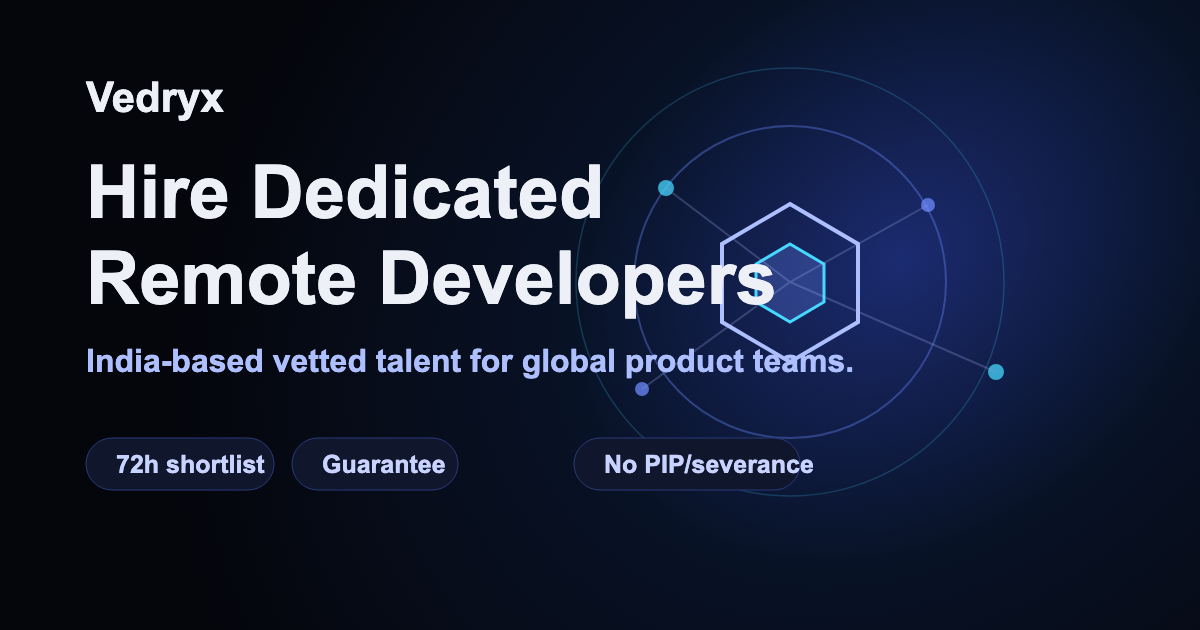
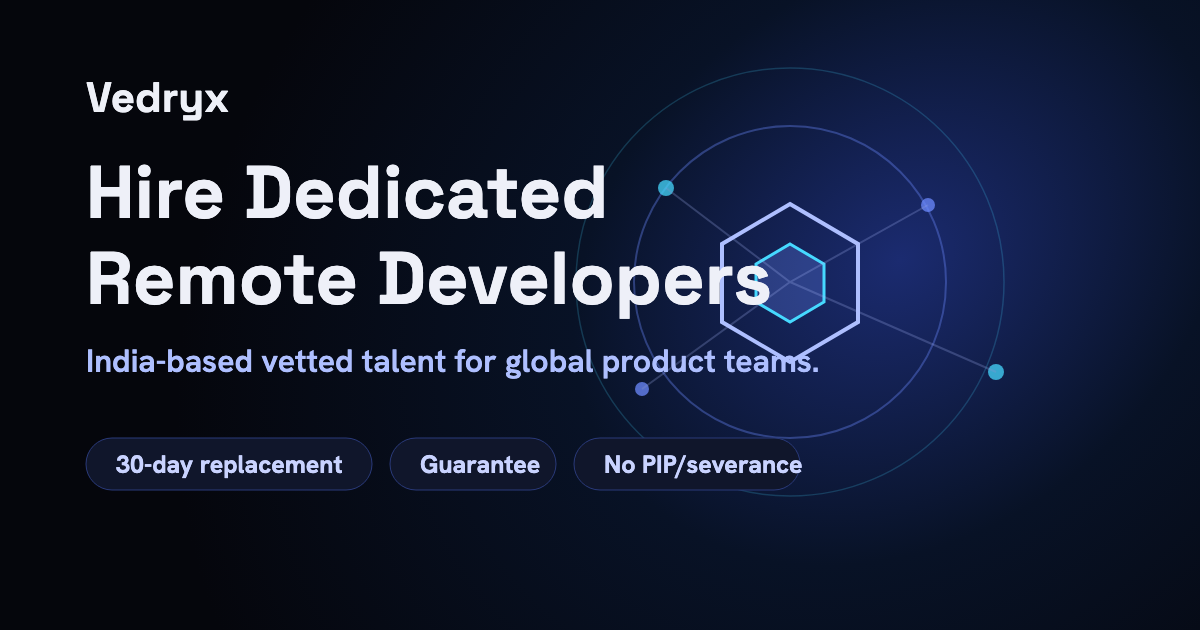
feat: Vedryx Hire rebrand — rename + 30-day replacement promise + hire.vedryxtech.com SEO refs (#57)
* feat(seo): repoint canonical + sitemap + og + robots to hire.vedryxtech.com

Changed URLs:
- index.html: canonical (line 22), og:url (57), og:image (58), twitter:image (68)
- index.html JSON-LD: @user fields (75, 83, 93), url fields (77, 84), logo (78), provider @user (96)
- public/sitemap.xml: loc (4), lastmod bumped to 2026-07-09
- public/robots.txt: Sitemap URL (6)
- public/llms.txt: Home URL (18)
- tests/e2e/homepage.spec.ts: canonical assertion (29), og:url assertion (31)
- .lighthouse/lighthouserc-desktop.json: URL (4)
- .lighthouse/lighthouserc-mobile.json: URL (4)

Post-verification: grep confirms 0 remaining https://vedryxtech.com refs in src/, public/, tests/, index.html.
Build: npm run build passes, prerender injects all canonical signals correctly into dist/.
Schema note: @user values are node identifiers; changing them is expected per domain migration.

* chore: drop unrelated api/_rateLimit.js from this PR

* fix(llms.txt): update Core Offering block to 30-day replacement promise

Missed in first pass — llms.txt Core Offering block still surfaced the
old 72-hour replacement SLA to LLM crawlers while the rest of the site
(hero, FAQ, trust stats) had moved to the 30-day promise. Contradiction
would leak into Perplexity/ChatGPT answers.

Also drops the redundant 'Developer replacement at no extra cost'
bullet since the new 30-day copy already promises unlimited replacements
at no extra cost.
[…]

diff --git a/index.html b/index.html
@@ -19,7 +19,7 @@
     />
     <meta name="author" content="Vedryx" />
     <meta name="theme-color" content="#080b12" />
-    <link rel="canonical" href="https://vedryxtech.com/" />
+    <link rel="canonical" href="https://hire.vedryxtech.com/" />
     <!-- LCP optimisation: preload nav logo (the LCP element per PSI) with
          high fetch priority. Targets lcp-discovery-insight (LCP was 6.4 s). -->
     <link rel="preload" as="image" href="/Vedryx_logo.svg" fetchpriority="high" />
@@ -54,8 +54,8 @@
       property="og:description"
       content="Hire India-based vetted remote developers for global product teams, with no PIP or severance liability and replacement at no extra cost during the agreed guarantee period."
     />
-    <meta property="og:url" content="https://vedryxtech.com/" />
-    <meta property="og:image" content="https://vedryxtech.com/og-image.png" />
+    <meta property="og:url" content="https://hire.vedryxtech.com/" />
+    <meta property="og:image" content="https://hire.vedryxtech.com/og-image.png" />
     <meta property="og:image:alt" content="Vedryx dedicated remote developer hiring preview" />
     <meta property="og:image:width" content="1200" />
     <meta property="og:image:height" content="630" />
@@ -65,35 +65,35 @@
       name="twitter:description"
       content="Hire India-based vetted remote developers with replacement at no extra cost during the agreed guarantee period."
     />
-    <meta name="twitter:image" content="https://vedryxtech.com/og-image.png" />
+    <meta name="twitter:image" content="https://hire.vedryxtech.com/og-image.png" />
     <script type="application/ld+json">
       {
         "@context": "https://schema.org",
         "@graph": [
           {
             "@type": "Organization",
-            "@id": "https://vedryxtech.com/#organization",
+            "@id": "https://hire.vedryxtech.com/#organization",
             "name": "Vedryx",
-            "url": "https://vedryxtech.com/",
-            "logo": "https://vedryxtech.com/icon-512.png",
+            "url": "https://hire.vedryxtech.com/",
+            "logo": "https://hire.vedryxtech.com/icon-512.png",
             "description": "Vedryx helps companies hire India-based vetted remote developers without resume screening, PIP exposure, or severance liability."
           },
           {
             "@type": "WebSite",
-            "@id": "https://vedryxtech.com/#website",
-            "url": "https://vedryxtech.com/",
+            "@id": "https://hire.vedryxtech.com/#website",
+            "url": "https://hire.vedryxtech.com/",
             "name": "Vedryx",
             "publisher": {
-              "@id": "https://vedryxtech.com/#organization"
+              "@id": "https://hire.vedryxtech.com/#organization"
             },
             "inLanguage": "en"
           },
           {
             "@type": "Service",
-            "@id": "https://vedryxtech.com/#service",
+            "@id": "https://hire.vedryxtech.com/#service",
             "name": "Dedicated remote developer hiring with replacement guarantee",
             "provider": {
-              "@id": "https://vedryxtech.com/#organization"
+              "@id": "https://hire.vedryxtech.com/#organization"
             },
             "serviceType": [
               "Hire dedicated remote developers",

diff --git a/src/data/landingContent.js b/src/data/landingContent.js
@@ -22,7 +22,7 @@ export const comparison = {
       ['Get matched to vetted talent', 'Interview overhead drops to fit review'],
       ['Developer starts full-time', 'Judge performance through real product work'],
       ['Not performing?', 'Vedryx replaces them at no extra cost', 'loop'],
-      ['72-hour replacement SLA', 'From your written notice, a vetted replacement shortlist within 72 hours', 'good'],
+      ['30-day replacement', 'From your written notice of dissatisfaction, Vedryx puts a vetted replacement in place within 30 days. Unlimited replacements, no extra cost.', 'good'],
     ],
   },
 }
@@ -44,7 +44,7 @@ export const noRiskItems = [
 ]
 
 export const trustStats = [
-  ['72h', 'replacement SLA', 'From your written notice of dissatisfaction to a vetted replacement shortlist — within 72 hours.'],
+  ['30d', 'replacement promise', 'From your written notice of dissatisfaction, Vedryx puts a vetted replacement in place within 30 days. Unlimited replacements, no extra cost.'],
   ['0', 'PIP or severance liability', 'Developers stay employed by Vedryx, so underperformance is not your employment burden.'],
   ['Full-time', 'dedicated developers', 'India-based remote developers work inside your tools, meetings, and delivery workflow.'],
 ]
@@ -138,14 +138,14 @@ export const faqItems = [
       { text: ' That is the promise. If a developer is not the right fit, Vedryx replaces them — ' },
       { text: 'at no extra cost, with no cap on the number of swaps', bold: true },
       { text: '. ' },
-      { text: '72-hour replacement SLA', bold: true },
-      { text: ': from your written notice of dissatisfaction, Vedryx delivers a vetted replacement shortlist within 72 hours. You are never locked to a hire that is not working. Specific guarantee terms are set out in your engagement contract.' },
+      { text: '30-day replacement', bold: true },
+      { text: ': From your written notice of dissatisfaction, Vedryx puts a vetted replacement in place within 30 days. Unlimited replacements, no extra cost. Specific guarantee terms are set out in your engagement contract.' },
     ],
   },
   {
     q: 'How does Vedryx vet developers?',
     a: [
-      { text: 'Vedryx Core developers are not freelancers we found yesterday. Every engineer clears ' },
+      { text: 'Vedryx Hire developers are not freelancers we found yesterday. Every engineer clears ' },
       { text: 'multiple rounds of structured interviews', bold: true },
       { text: ' and is then ' },
       { text: 'hired as a full-time Vedryx employee', bold: true },
@@ -155,7 +155,7 @@ export const faqItems = [
     ],
   },
   {
-    q: 'How long is a Vedryx Core engagement?',
+    q: 'How long is a Vedryx Hire engagement?',
     a: [
       { text: 'Engagements are ' },
       { text: 'flexible and shaped around the work', bold: true },
@@ -171,11 +171,11 @@ export const faqItems = [
     ],
   },
   {
-    q: 'How is Vedryx Core different from Toptal, Andela, or Turing?',
+    q: 'How is Vedryx Hire different from Toptal, Andela, or Turing?',
     a: [
       { text: 'Three differences clients consistently call out. ' },
       { text: 'One: dedicated, not marketplace', bold: true },
-      { text: ' — Vedryx Core engagements are full-time monthly placements, not hourly gigs. ' },
+      { text: ' — Vedryx Hire engagements are full-time monthly placements, not hourly gigs. ' },
       { text: 'Two: unlimited replacement at no extra cost', bold: true },
       { text: ' — Toptal and Turing typically charge for re-matching or impose multi-week re-vetting cycles. ' },
       { text: 'Three: a single Vedryx-to-client contract', bold: true },

diff --git a/tests/e2e/homepage.spec.ts b/tests/e2e/homepage.spec.ts
@@ -22,13 +22,13 @@ test.describe('homepage SSR output', () => {
     expect(html).toContain('Replace until they perform.')
     // Hero badge and proofline must also be present pre-hydration.
     expect(html).toContain('No PIP, no severance, unlimited replacement')
-    expect(html).toContain('72-hour replacement SLA')
+    expect(html).toContain('30-day replacement')
   })
 
   test('renders canonical URL and OG tags in head', async () => {
-    expect(html).toContain('<link rel="canonical" href="https://vedryxtech.com/"')
+    expect(html).toContain('<link rel="canonical" href="https://hire.vedryxtech.com/"')
     expect(html).toMatch(/<meta property="og:title" content="Vedryx \| Hire Dedicated Remote Developers"/)
-    expect(html).toContain('<meta property="og:url" content="https://vedryxtech.com/"')
+    expect(html).toContain('<meta property="og:url" content="https://hire.vedryxtech.com/"')
     expect(html).toContain('<meta property="og:image"')
   })
 

diff --git a/src/main.jsx b/src/main.jsx
@@ -10,6 +10,10 @@ import { registerWebMcpTools } from './utils/webmcp.js'
 initSentry()
 
 // Fire-and-forget. No-op when VITE_POSTHOG_KEY is unset.
+// NOTE: `site: 'vedryx-core-web'` is a legacy PostHog identifier retained after
+// the "Vedryx Core" → "Vedryx Hire" brand rename (2026-07-09). Do not change it
+// without a coordinated dashboard/filter migration — existing funnels + insights
+// filter on this exact string. Brand-facing copy lives in landingContent.js.
 initPostHog().then(() => {
   track('landing_view', { site: 'vedryx-core-web' })
 })

diff --git a/src/components/sections/FAQSection/FAQSection.jsx b/src/components/sections/FAQSection/FAQSection.jsx
@@ -111,7 +111,7 @@ const DEFAULT_TITLE = (
 )
 
 const DEFAULT_LEAD =
-  'The replacement promise, how we vet, who owns the code, and how Vedryx Core differs from a marketplace. Straight answers — written by the team who signs the contracts, not by marketing.'
+  'The replacement promise, how we vet, who owns the code, and how Vedryx Hire differs from a marketplace. Straight answers — written by the team who signs the contracts, not by marketing.'
 
 export function FAQSection({
   items = faqItems,

diff --git a/src/components/sections/HeroSection/HeroSection.jsx b/src/components/sections/HeroSection/HeroSection.jsx
@@ -22,7 +22,7 @@ export function HeroSection() {
         </div>
         <div className="hero-proofline" aria-label="Vedryx engagement safeguards">
           <span>Unlimited replacement</span>
-          <span>72-hour replacement SLA</span>
+          <span>30-day replacement</span>
           <span>No PIP or severance liability</span>
         </div>
       </div>